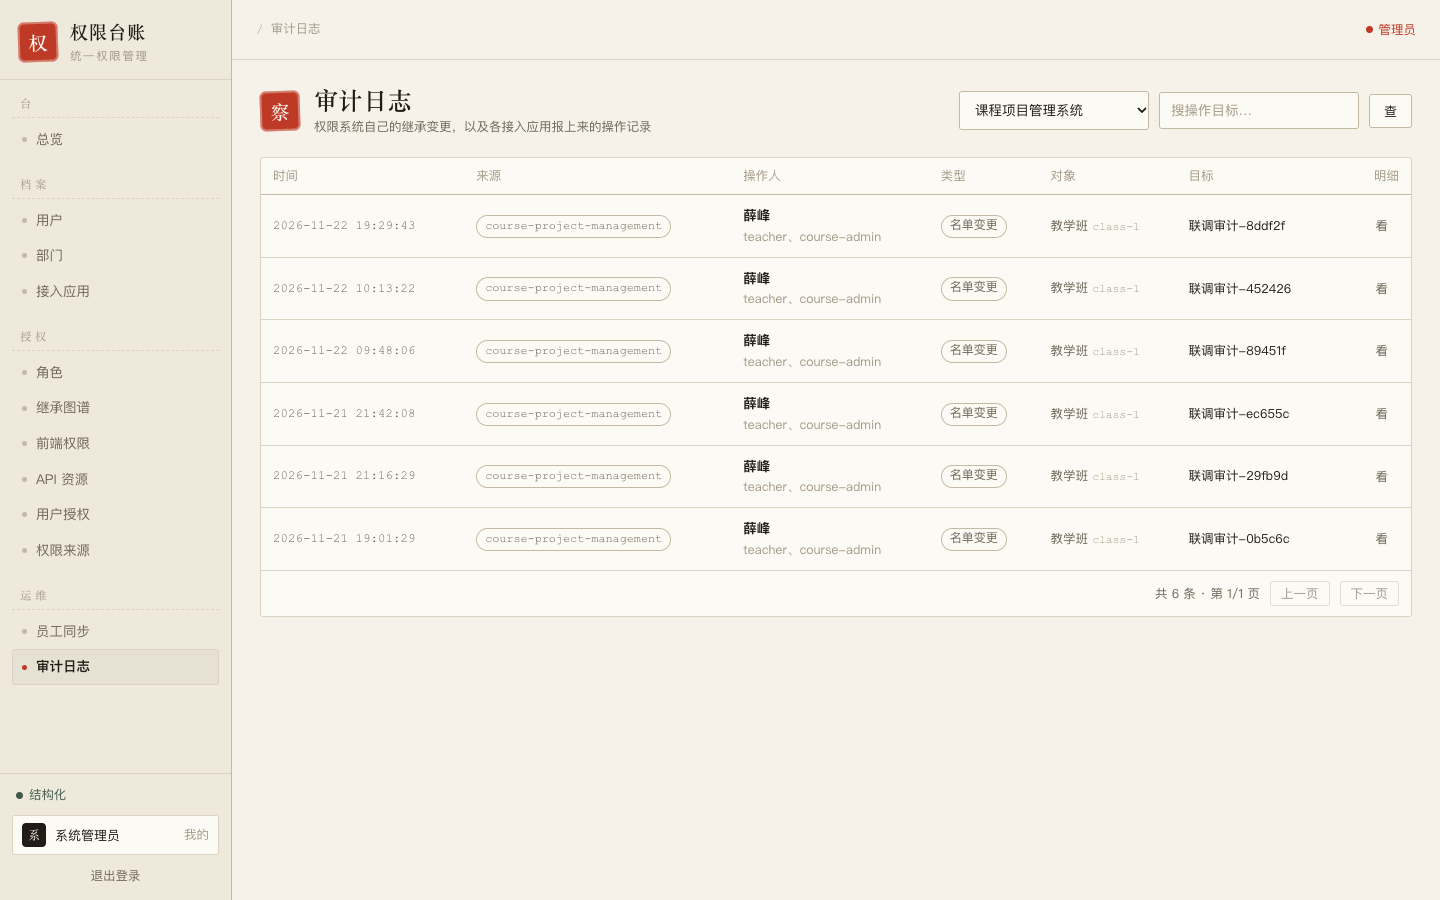
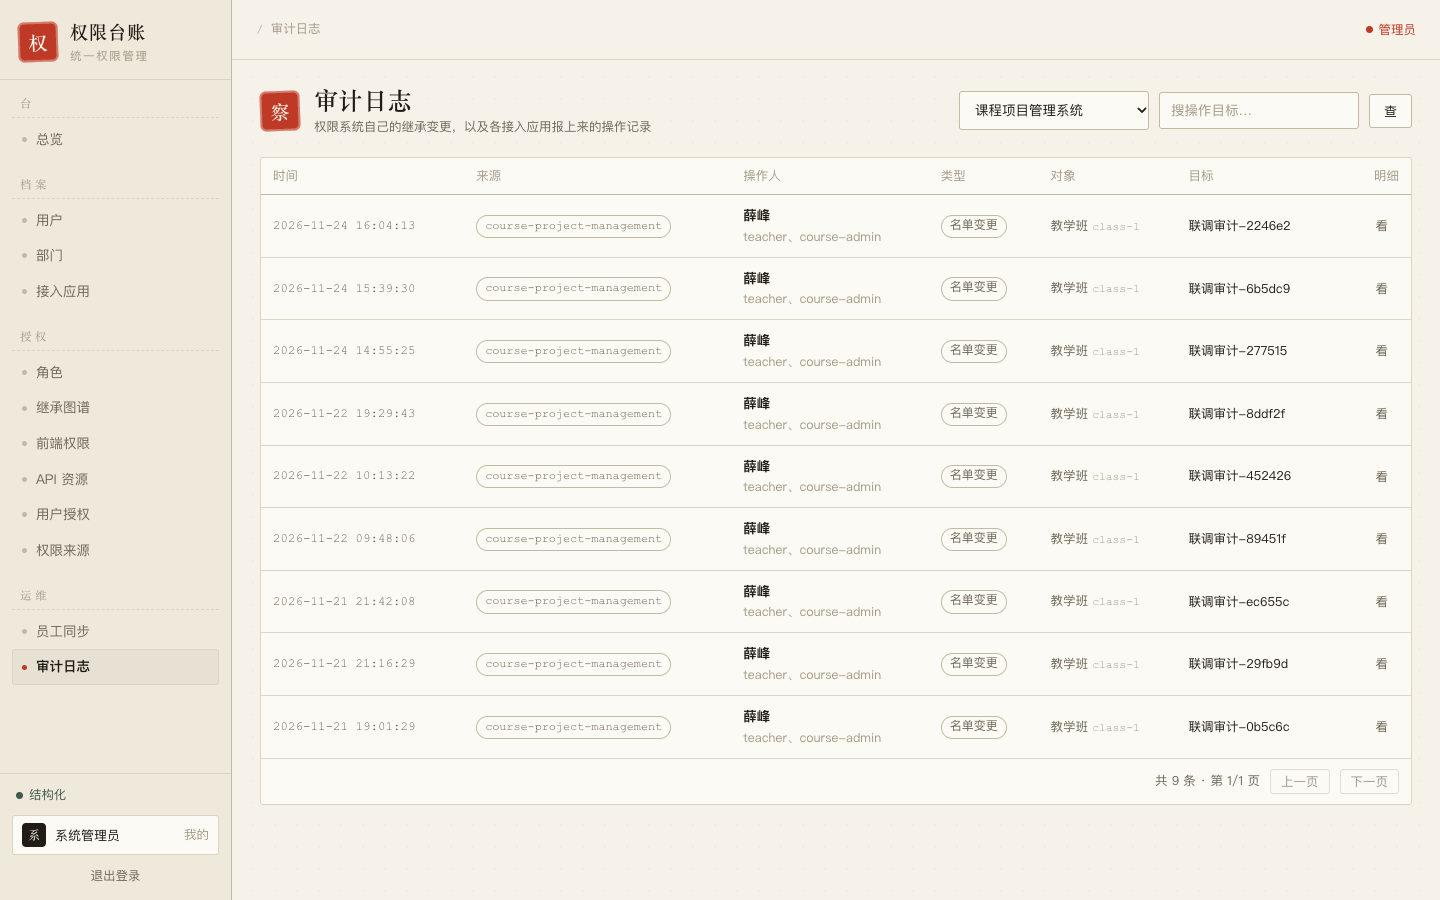
deploy: 课程前端按老师仓库 24a4d7d 重新编译
老师 11-23 的前端改动只有查询当前用户时的控制台日志。按老师部署说明重新编译、在 CDWY4
构建 course-mgt-frontend:24a4d7d 并滚动更新；公网接口验收 46/46、浏览器走查 13 步通过，
更新部署证据中的验收输出和截图。

diff --git a/docs/second-review/evidence/deployment/README.md b/docs/second-review/evidence/deployment/README.md
@@ -9,7 +9,7 @@
 * 前端 `course-mgt-frontend:990cea2` 由我们按老师仓库编译。
 * 员工信息表的一万名员工都启用为测试账号：总公司员工是教师，分公司员工是学生。
 
-2026-11-24 跟进老师 11-23 重新发布的课程后端（同一标签 `0.0.1`，摘要改为 `sha256:88a476df…`，对应老师仓库 master `24a4d7d`）：新版以权限码作为 operationId 调 `/auth/api-permissions/{operationId}`，我们把课程系统 API 资源的 operationId 改为权限码后换上新镜像，重跑了接口验收（`verify-public.txt`，46/46）。其余文件仍是 11-22 采集的。
+2026-11-24 跟进老师 11-23 重新发布的课程后端（同一标签 `0.0.1`，摘要改为 `sha256:88a476df…`，对应老师仓库 master `24a4d7d`）：新版以权限码作为 operationId 调 `/auth/api-permissions/{operationId}`，我们把课程系统 API 资源的 operationId 改为权限码后换上新镜像，课程前端也按 `24a4d7d` 重新编译为 `course-mgt-frontend:24a4d7d`。之后重跑了接口验收（`verify-public.txt`，46/46）和浏览器走查（13 步），五张截图换成了这次的；其余文件仍是 11-22 采集的。
 
 2026-11-22 晚权限台账上线后，重新采集了 Swarm 状态、健康检查、接口验收、菜单日志和走查截图；登记输出、账号核对与课程后端的调用日志是当天上午课程系统更新时采集的，权限台账上线不影响它们。
 

diff --git a/README.md b/README.md
@@ -21,7 +21,7 @@
 | 包图、类图、顺序图、GRASP、结构化与 DDD 区别、JavaEE 技术 | [详细设计](docs/second-review/03-detailed-design.adoc)：包图、DFD、模块结构图、两个答辩 API 的两种类图与顺序图 |
 | 数据库设计（adoc） | [数据库设计](docs/second-review/02-database-design.adoc)、[增量迁移](docs/second-review/migrate-second-review.sql) |
 | 课程系统登记与联调 | [scripts/register-course-app.py](scripts/register-course-app.py) 用普通管理 API 登记 `course-project-management` 应用的菜单、按钮、API、角色，同步员工信息表，并把一万名员工启用为测试账号；[scripts/verify-course-integration.py](scripts/verify-course-integration.py) 跨系统验收（45 项；结构化、DDD 两种模式各 45/45 通过，公网部署后复核通过） |
-| 课程系统构建 | [deploy/course](deploy/course)：后端用老师发布的镜像 `course-mgt-backend:0.0.1`（11-23 重新发布版，以权限码作为 operationId 查接口权限），前端按老师仓库 master（`990cea2`）编译，不打补丁 |
+| 课程系统构建 | [deploy/course](deploy/course)：后端用老师发布的镜像 `course-mgt-backend:0.0.1`（11-23 重新发布版，以权限码作为 operationId 查接口权限），前端按老师仓库 master（`24a4d7d`）编译，不打补丁 |
 
 ## 你应该先看哪里
 

diff --git a/deploy/README.md b/deploy/README.md
@@ -3,7 +3,7 @@
 完整说明见 [docs/second-review/05-deployment.adoc](../docs/second-review/05-deployment.adoc)。当前部署（2026-11-22 更新）：
 
 - 统一权限管理系统：http://120.46.213.158/ （stack `cdwy`，CDWY3）：首页进权限台账，原管理控制台在 `/ui/`
-- 课程项目管理系统：http://124.70.102.248/ （stack `course-project`，CDWY4）：后端用老师发布的镜像 `course-mgt-backend:0.0.1`（11-23 重新发布版，按摘要固定），前端按老师仓库 master `990cea2` 编译，未改老师代码
+- 课程项目管理系统：http://124.70.102.248/ （stack `course-project`，CDWY4）：后端用老师发布的镜像 `course-mgt-backend:0.0.1`（11-23 重新发布版，按摘要固定），前端按老师仓库 master `24a4d7d` 编译，未改老师代码
 - 测试账号：老师员工信息表中的一万名员工，总公司员工从教师入口登录，分公司员工从学生入口登录，统一使用测试密码（不写进仓库）
 
 | 文件 | 用途 |
